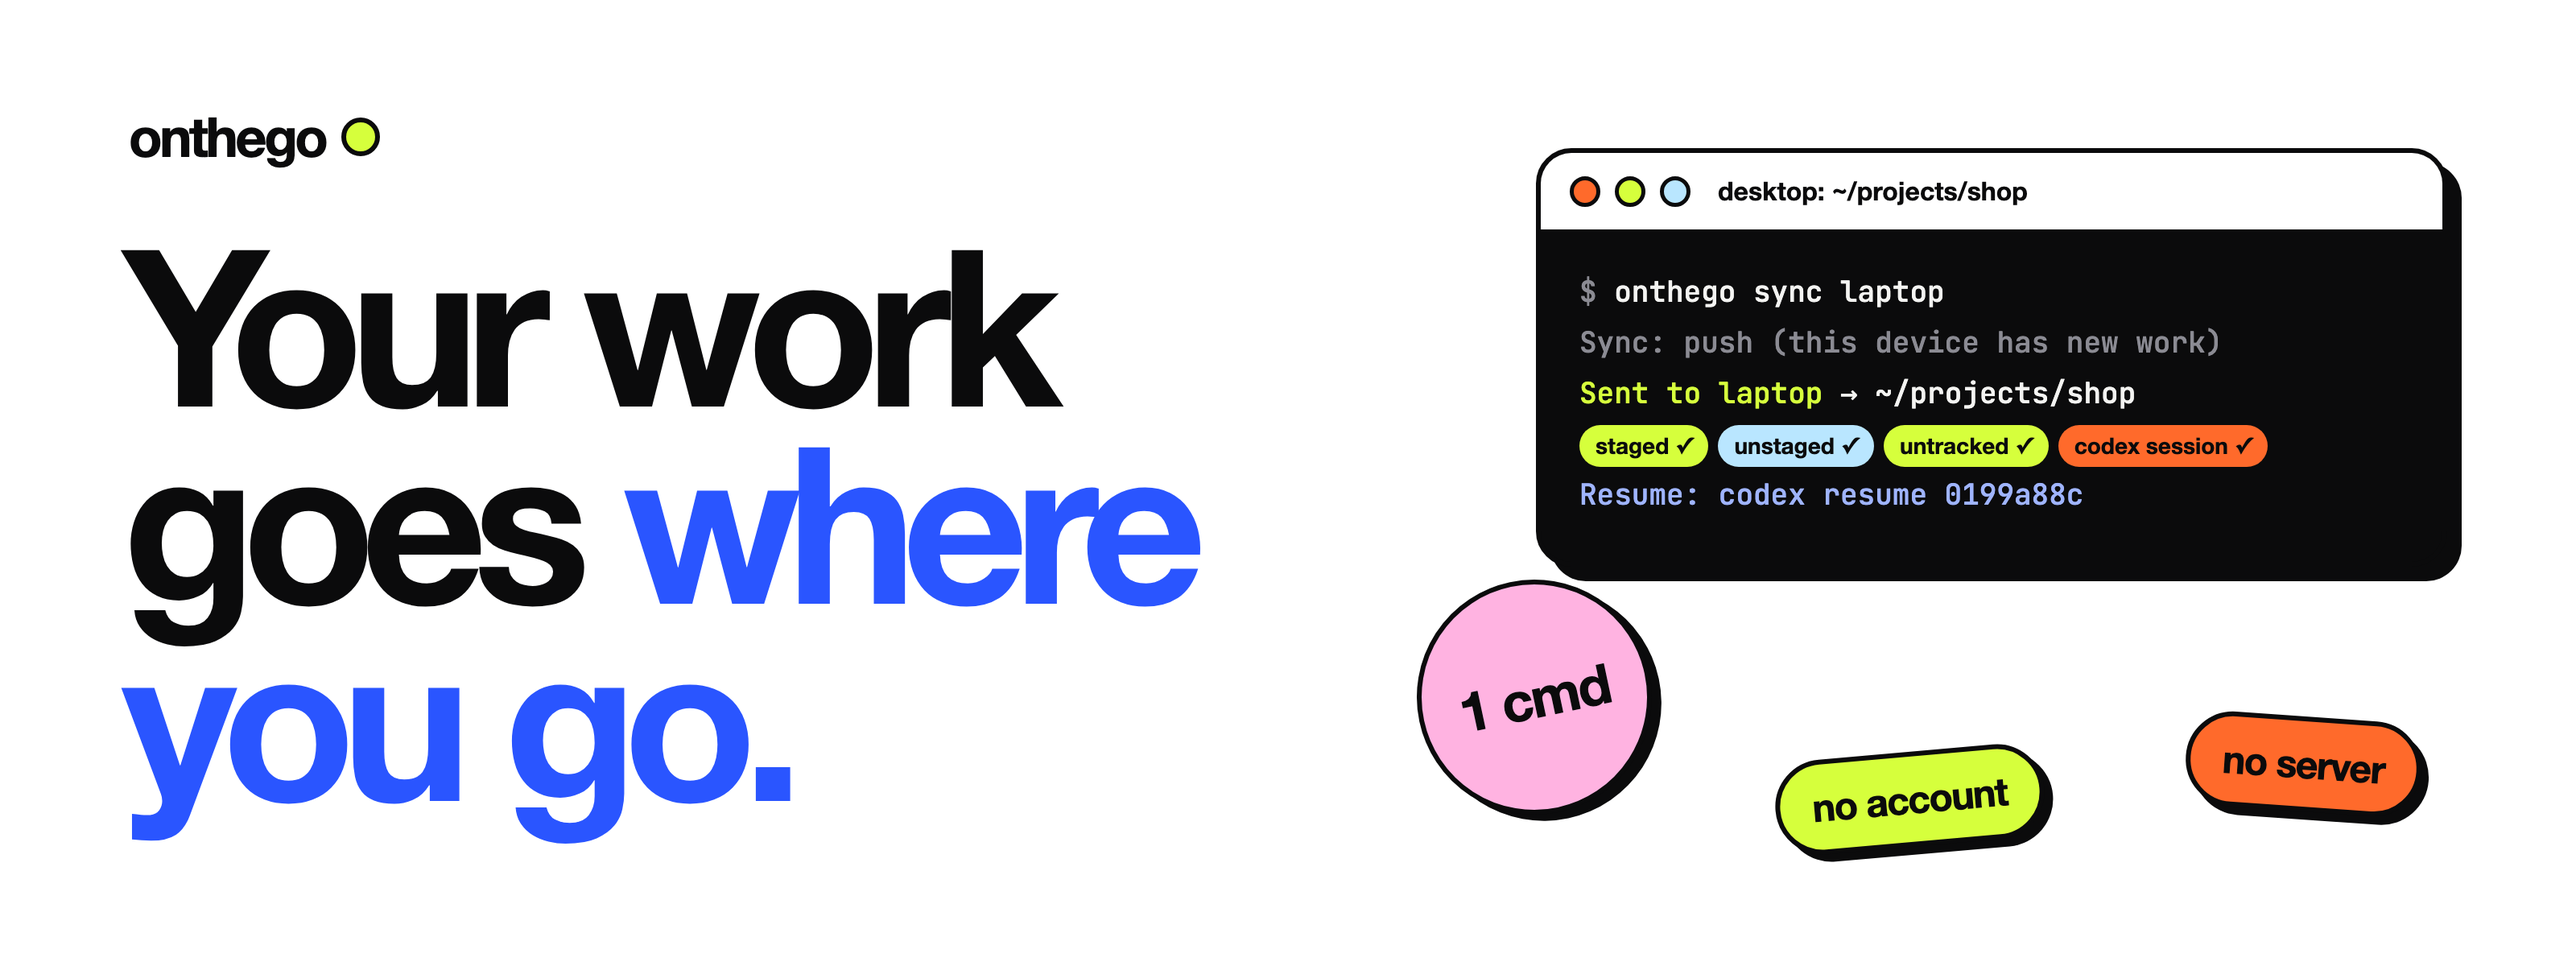
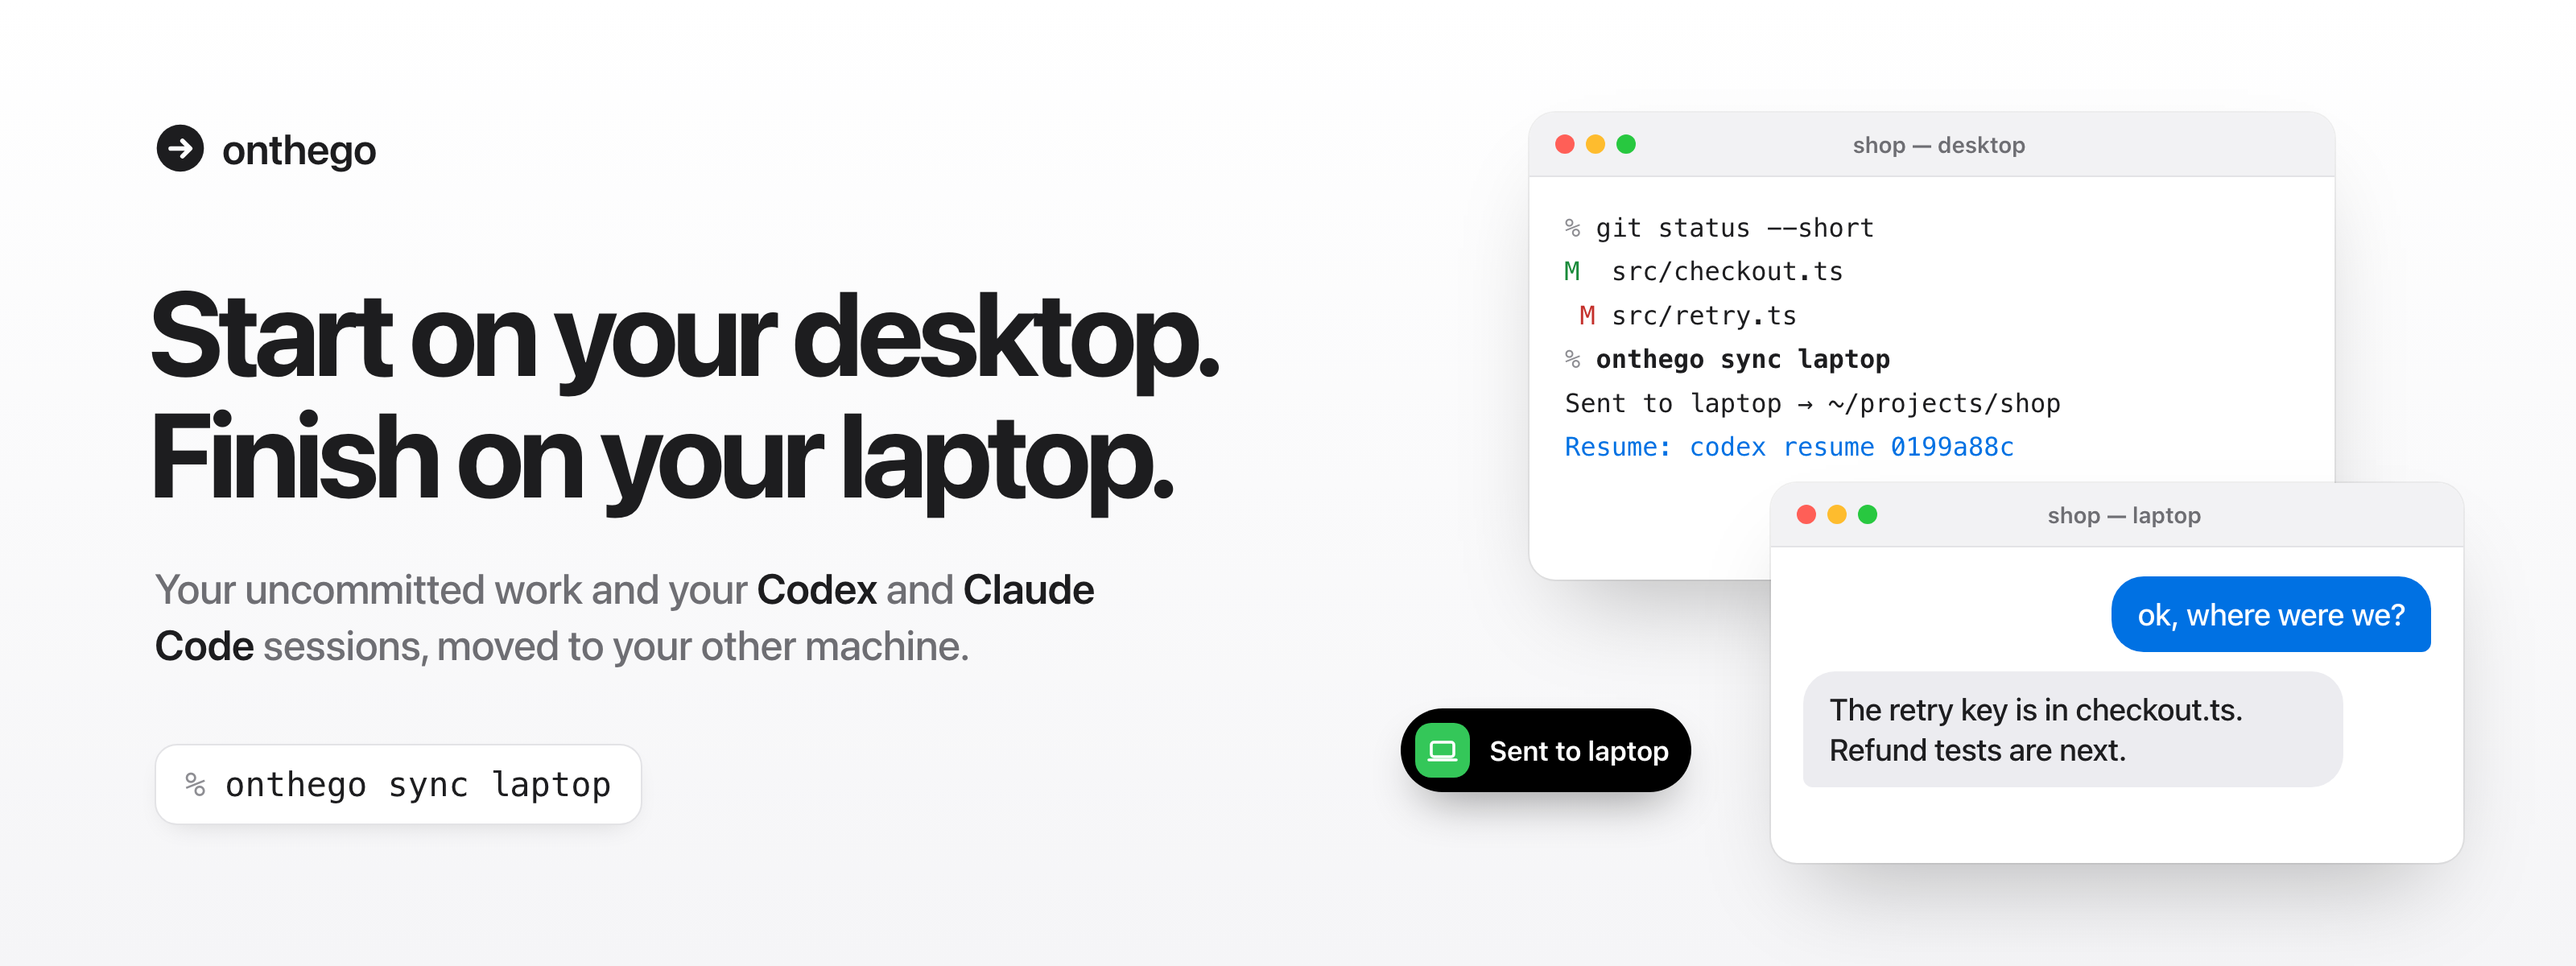
docs(readme): match README and images to the new landing page

diff --git a/assets/banner.html b/assets/banner.html
@@ -5,45 +5,63 @@
 <html lang="en">
 <head>
 <meta charset="utf-8">
-<link href="https://fonts.googleapis.com/css2?family=JetBrains+Mono:wght@500;700&display=swap" rel="stylesheet">
 <style>
-  html, body { margin: 0; width: 1600px; height: 600px; overflow: hidden; background: #fff; }
-  body { position: relative; color: #0b0b0c; font-family: "Helvetica Neue", Helvetica, Arial, sans-serif; }
-  .logo { position: absolute; left: 80px; top: 64px; font-weight: 700; font-size: 34px; letter-spacing: -.05em; display: flex; align-items: center; gap: 10px; }
-  .logo i { width: 18px; height: 18px; border-radius: 50%; background: #d6ff3c; border: 3px solid #0b0b0c; display: inline-block; }
-  h1 { position: absolute; left: 76px; top: 140px; margin: 0; font-weight: 700; font-size: 136px; line-height: .9; letter-spacing: -.065em; width: 860px; }
-  h1 span { color: #2a55ff; }
-  .term { position: absolute; right: 80px; top: 92px; width: 560px; border: 3px solid #0b0b0c; border-radius: 22px; background: #0b0b0c; box-shadow: 9px 9px 0 #0b0b0c; overflow: hidden; }
-  .bar { background: #fff; border-bottom: 3px solid #0b0b0c; padding: 14px 18px; display: flex; gap: 9px; align-items: center; font-weight: 700; font-size: 16px; }
-  .bar i { width: 14px; height: 14px; border-radius: 50%; border: 2.5px solid #0b0b0c; display: inline-block; }
-  .bar i:nth-child(1) { background: #ff6a2b; } .bar i:nth-child(2) { background: #d6ff3c; } .bar i:nth-child(3) { background: #b9e6ff; }
-  .bar span { margin-left: 8px; }
-  .body { padding: 20px 24px 26px; font: 500 18px/1.75 "JetBrains Mono", monospace; color: #f4f4f2; }
-  .c::before { content: "$ "; color: #8b8b93; }
-  .dim { color: #8b8b93; } .ok { color: #d6ff3c; } .bl { color: #9fb4ff; }
-  .pill { display: inline-block; font: 700 14px/1 "Helvetica Neue", Helvetica, Arial; padding: 6px 10px; border-radius: 999px; background: #d6ff3c; color: #0b0b0c; margin: 4px 6px 0 0; }
-  .pill.s { background: #b9e6ff; } .pill.o { background: #ff6a2b; }
-  .stk { position: absolute; border: 3px solid #0b0b0c; box-shadow: 5px 5px 0 #0b0b0c; font-weight: 700; letter-spacing: -.03em; }
-  .circle { width: 140px; height: 140px; border-radius: 50%; background: #ffb3e1; left: 880px; top: 360px; display: grid; place-items: center; font-size: 34px; transform: rotate(-12deg); }
-  .p1 { right: 330px; bottom: 74px; background: #d6ff3c; border-radius: 999px; padding: 12px 20px; font-size: 24px; transform: rotate(-5deg); }
-  .p2 { right: 96px; bottom: 96px; background: #ff6a2b; border-radius: 999px; padding: 12px 20px; font-size: 24px; transform: rotate(4deg); }
+  :root { --text: #1d1d1f; --muted: #6e6e73; --blue: #0071e3; --green: #34c759;
+    --sf: "SF Pro Display", "SF Pro Text", -apple-system, BlinkMacSystemFont, system-ui, sans-serif;
+    --mono: "SF Mono", ui-monospace, Menlo, monospace; }
+  * { box-sizing: border-box; margin: 0; padding: 0; }
+  html, body { width: 1600px; height: 600px; overflow: hidden; }
+  body { position: relative; background: linear-gradient(180deg, #fff 0%, #f5f5f7 100%); color: var(--text); font-family: var(--sf); -webkit-font-smoothing: antialiased; }
+  .logo { position: absolute; left: 96px; top: 76px; display: flex; align-items: center; gap: 10px; font: 600 26px var(--sf); letter-spacing: -.015em; }
+  .logo svg { width: 32px; height: 32px; }
+  h1 { position: absolute; left: 92px; top: 168px; font: 700 74px/1.02 var(--sf); letter-spacing: -.047em; }
+  h1 span { display: block; }
+  .sub { position: absolute; left: 96px; top: 348px; width: 620px; font: 500 26px/1.35 var(--sf); color: var(--muted); letter-spacing: -.012em; }
+  .sub b { color: var(--text); font-weight: 600; }
+  .cmd { position: absolute; left: 96px; top: 462px; display: inline-flex; align-items: center; gap: 12px; background: #fff; border: 1px solid #e3e3e6; border-radius: 14px; padding: 12px 18px; font: 500 21px var(--mono); box-shadow: 0 6px 18px -10px rgba(0,0,0,.2); }
+  .cmd .p { color: #8e8e93; }
+
+  .win { position: absolute; background: #fff; border-radius: 16px; overflow: hidden; box-shadow: 0 30px 60px -24px rgba(0,0,0,.28), 0 0 0 1px rgba(0,0,0,.06); }
+  .bar { height: 40px; display: flex; align-items: center; gap: 7px; padding: 0 16px; background: #f2f2f4; border-bottom: 1px solid #e3e3e6; }
+  .bar i { width: 12px; height: 12px; border-radius: 50%; display: block; }
+  .bar i:nth-child(1) { background: #ff5f57; } .bar i:nth-child(2) { background: #febc2e; } .bar i:nth-child(3) { background: #28c840; }
+  .bar span { margin: 0 auto; transform: translateX(-24px); font: 600 14px var(--sf); color: var(--muted); }
+  .desk { left: 950px; top: 70px; width: 500px; height: 290px; }
+  .term { padding: 18px 22px; font: 500 16px/1.7 var(--mono); white-space: pre; }
+  .term .p { color: #8e8e93; } .term .g { color: #1a8a3a; } .term .r { color: #c4302b; } .term .b { color: var(--blue); } .term .k { font-weight: 700; }
+  .lap { left: 1100px; top: 300px; width: 430px; height: 236px; }
+  .chat { padding: 18px 20px; display: flex; flex-direction: column; gap: 12px; }
+  .msg { max-width: 86%; padding: 11px 16px; border-radius: 20px; font: 500 19px/1.32 var(--sf); letter-spacing: -.01em; }
+  .me { align-self: flex-end; background: var(--blue); color: #fff; border-bottom-right-radius: 6px; }
+  .ai { align-self: flex-start; background: #ececf0; border-bottom-left-radius: 6px; }
+  .island { position: absolute; left: 870px; top: 440px; display: flex; align-items: center; gap: 12px; background: #000; color: #fff; border-radius: 999px; padding: 9px 14px 9px 9px; box-shadow: 0 14px 30px -12px rgba(0,0,0,.45); }
+  .island .ico { width: 34px; height: 34px; border-radius: 10px; background: var(--green); display: grid; place-items: center; }
+  .island .ico svg { width: 20px; height: 20px; }
+  .island b { font: 600 17px var(--sf); }
 </style>
 </head>
 <body>
-  <div class="logo">onthego<i></i></div>
-  <h1>Your work goes <span>where you go.</span></h1>
-    <div class="term">
-    <div class="bar"><i></i><i></i><i></i><span>desktop: ~/projects/shop</span></div>
-    <div class="body">
-      <div class="c">onthego sync laptop</div>
-      <div class="dim">Sync: push (this device has new work)</div>
-      <div><span class="ok">Sent to laptop</span> → ~/projects/shop</div>
-      <div><span class="pill">staged ✓</span><span class="pill s">unstaged ✓</span><span class="pill">untracked ✓</span><span class="pill o">codex session ✓</span></div>
-      <div class="bl">Resume: codex resume 0199a88c</div>
+  <div class="logo"><svg viewBox="0 0 24 24"><circle cx="12" cy="12" r="11" fill="#1d1d1f"/><path d="M7.5 12.2h8.2M13 8.6l3.6 3.6L13 15.8" fill="none" stroke="#fff" stroke-width="2.1" stroke-linecap="round" stroke-linejoin="round"/></svg>onthego</div>
+  <h1><span>Start on your desktop.</span><span>Finish on your laptop.</span></h1>
+  <p class="sub">Your uncommitted work and your <b>Codex</b> and <b>Claude Code</b> sessions, moved to your other machine.</p>
+  <div class="cmd"><span class="p">%</span> onthego sync laptop</div>
+
+  <div class="win desk">
+    <div class="bar"><i></i><i></i><i></i><span>shop &#8212; desktop</span></div>
+<div class="term"><span class="p">%</span> git status --short
+<span class="g">M</span>  src/checkout.ts
+ <span class="r">M</span> src/retry.ts
+<span class="p">%</span> <span class="k">onthego sync laptop</span>
+Sent to laptop &#8594; ~/projects/shop
+<span class="b">Resume: codex resume 0199a88c</span></div>
+  </div>
+  <div class="win lap">
+    <div class="bar"><i></i><i></i><i></i><span>shop &#8212; laptop</span></div>
+    <div class="chat">
+      <div class="msg me">ok, where were we?</div>
+      <div class="msg ai">The retry key is in checkout.ts. Refund tests are next.</div>
     </div>
   </div>
-  <div class="stk circle">1 cmd</div>
-  <div class="stk p1">no account</div>
-  <div class="stk p2">no server</div>
+  <div class="island"><span class="ico"><svg viewBox="0 0 20 20"><rect x="3" y="5" width="14" height="9" rx="1.6" fill="none" stroke="#fff" stroke-width="1.8"/><path d="M1.5 16h17" stroke="#fff" stroke-width="1.8" stroke-linecap="round"/></svg></span><b>Sent to laptop</b></div>
 </body>
 </html>

diff --git a/assets/sync.html b/assets/sync.html
@@ -5,24 +5,32 @@
 <html lang="en">
 <head>
 <meta charset="utf-8">
-<link href="https://fonts.googleapis.com/css2?family=JetBrains+Mono:wght@500;700&display=swap" rel="stylesheet">
 <style>
-  html, body { margin: 0; width: 1600px; height: 520px; overflow: hidden; background: #fff; }
-  body { color: #0b0b0c; font-family: "Helvetica Neue", Helvetica, Arial, sans-serif; display: grid; grid-template-columns: repeat(3, 1fr); gap: 34px; padding: 50px 64px 60px; box-sizing: border-box; }
-  .t { border: 3px solid #0b0b0c; border-radius: 28px; box-shadow: 9px 9px 0 #0b0b0c; padding: 30px 32px; display: flex; flex-direction: column; }
-  .t:nth-child(1) { background: #b9e6ff; transform: rotate(-1.4deg); }
-  .t:nth-child(2) { background: #d6ff3c; transform: rotate(1deg); }
-  .t:nth-child(3) { background: #ff6a2b; transform: rotate(-.8deg); }
-  .g { font-weight: 700; font-size: 130px; line-height: .8; letter-spacing: -.08em; margin-bottom: auto; }
-  .v { align-self: flex-start; background: #0b0b0c; color: #fff; font: 700 20px/1 "JetBrains Mono", monospace; padding: 8px 14px; border-radius: 999px; margin: 24px 0 16px; }
-  h3 { margin: 0 0 10px; font-size: 38px; line-height: 1; letter-spacing: -.05em; }
-  p { margin: 0; font-size: 21px; line-height: 1.35; letter-spacing: -.01em; }
-  code { font: 700 18px "JetBrains Mono", monospace; background: rgba(255,255,255,.6); padding: 1px 6px; border-radius: 6px; }
+  :root { --text: #1d1d1f; --muted: #6e6e73; --sf: "SF Pro Display", "SF Pro Text", -apple-system, BlinkMacSystemFont, system-ui, sans-serif; --mono: "SF Mono", ui-monospace, Menlo, monospace; }
+  * { box-sizing: border-box; margin: 0; padding: 0; }
+  html, body { width: 1600px; height: 520px; overflow: hidden; }
+  body { background: #f5f5f7; color: var(--text); font-family: var(--sf); -webkit-font-smoothing: antialiased; display: grid; grid-template-columns: repeat(3, 1fr); gap: 28px; padding: 56px 72px; }
+  .t { background: #fff; border-radius: 28px; padding: 36px 36px 34px; display: flex; flex-direction: column; }
+  .ic { width: 64px; height: 64px; border-radius: 18px; display: grid; place-items: center; margin-bottom: auto; }
+  .ic svg { width: 32px; height: 32px; }
+  .v { align-self: flex-start; font: 600 17px var(--mono); color: var(--muted); background: #f2f2f4; border-radius: 8px; padding: 5px 10px; margin-bottom: 14px; }
+  h3 { font: 700 38px/1.05 var(--sf); letter-spacing: -.035em; margin-bottom: 12px; }
+  p { font: 500 20px/1.4 var(--sf); color: var(--muted); letter-spacing: -.01em; }
+  code { font: 600 17px var(--mono); color: var(--text); background: #f2f2f4; border-radius: 6px; padding: 1px 6px; }
 </style>
 </head>
 <body>
-  <div class="t"><div class="g">→</div><span class="v">push</span><h3>Only here changed</h3><p>Your work and its agent sessions go to the other device.</p></div>
-  <div class="t"><div class="g">←</div><span class="v">pull</span><h3>Only there changed</h3><p>It brings everything back. Also when you handed work off.</p></div>
-  <div class="t"><div class="g">✕</div><span class="v">stop</span><h3>Both changed</h3><p>Nothing is merged. Pick <code>push --replace</code> or <code>pull --replace</code>; a backup is kept.</p></div>
+  <div class="t">
+    <div class="ic" style="background:#0071e3"><svg viewBox="0 0 32 32"><path d="M7 16h17M18 9.5l6.5 6.5-6.5 6.5" fill="none" stroke="#fff" stroke-width="3" stroke-linecap="round" stroke-linejoin="round"/></svg></div>
+    <span class="v">push</span><h3>Only here changed</h3><p>Your work and its agent sessions go to the other device.</p>
+  </div>
+  <div class="t">
+    <div class="ic" style="background:#34c759"><svg viewBox="0 0 32 32"><path d="M25 16H8M14 9.5L7.5 16l6.5 6.5" fill="none" stroke="#fff" stroke-width="3" stroke-linecap="round" stroke-linejoin="round"/></svg></div>
+    <span class="v">pull</span><h3>Only there changed</h3><p>It brings everything back. Also when you handed work off.</p>
+  </div>
+  <div class="t">
+    <div class="ic" style="background:#1d1d1f"><svg viewBox="0 0 32 32"><path d="M10 10l12 12M22 10L10 22" fill="none" stroke="#fff" stroke-width="3" stroke-linecap="round"/></svg></div>
+    <span class="v">stop</span><h3>Both changed</h3><p>Nothing is merged. Pick <code>push --replace</code> or <code>pull --replace</code>. A backup is kept.</p>
+  </div>
 </body>
 </html>

diff --git a/README.md b/README.md
@@ -1,20 +1,20 @@
 <p align="center">
-  <img src="https://raw.githubusercontent.com/peerproblem/onthego/main/assets/onthego-banner.png" alt="onthego moves your Git workspace and agent sessions between your desktop, laptop, and VPS" width="100%">
+  <img src="https://raw.githubusercontent.com/peerproblem/onthego/main/assets/onthego-banner.png" alt="Start on your desktop. Finish on your laptop. onthego moves your uncommitted work and your Codex and Claude Code sessions to your other machine." width="100%">
 </p>
 
-<h3 align="center">Desk to couch to café to server. Your work comes along.</h3>
+<h3 align="center">Start on your desktop. Finish on your laptop.</h3>
 
 <p align="center">
-  One command moves an unfinished Git workspace <b>and</b> its Codex and Claude Code sessions<br>
-  between your own desktop, laptop, and VPS. Pick up the same conversation where you left it.
+  onthego copies your uncommitted work and your Codex and Claude Code sessions<br>
+  to your other machine. Then you pick up the same session there.
 </p>
 
 <p align="center">
-  <a href="https://www.npmjs.com/package/@jbaehova/onthego"><img alt="npm" src="https://img.shields.io/npm/v/%40jbaehova%2Fonthego?style=for-the-badge&color=0b0b0c&labelColor=d6ff3c&label=npm"></a>
-  <a href="https://github.com/peerproblem/onthego/actions/workflows/ci.yml"><img alt="CI" src="https://img.shields.io/github/actions/workflow/status/peerproblem/onthego/ci.yml?branch=main&style=for-the-badge&labelColor=b9e6ff&color=0b0b0c&label=ci"></a>
-  <img alt="macOS and Linux" src="https://img.shields.io/badge/macOS%20%2B%20Linux-0b0b0c?style=for-the-badge">
-  <img alt="No account, no server" src="https://img.shields.io/badge/no%20account-no%20server-ff6a2b?style=for-the-badge&labelColor=0b0b0c">
-  <a href="LICENSE"><img alt="MIT license" src="https://img.shields.io/badge/license-MIT-ffb3e1?style=for-the-badge&labelColor=0b0b0c"></a>
+  <a href="https://www.npmjs.com/package/@jbaehova/onthego"><img alt="npm" src="https://img.shields.io/npm/v/%40jbaehova%2Fonthego?style=flat-square&color=1d1d1f&label=npm"></a>
+  <a href="https://github.com/peerproblem/onthego/actions/workflows/ci.yml"><img alt="CI" src="https://img.shields.io/github/actions/workflow/status/peerproblem/onthego/ci.yml?branch=main&style=flat-square&label=ci"></a>
+  <img alt="macOS and Linux" src="https://img.shields.io/badge/macOS%20%2B%20Linux-1d1d1f?style=flat-square">
+  <img alt="No account, no server" src="https://img.shields.io/badge/no%20account%2C%20no%20server-0071e3?style=flat-square">
+  <a href="LICENSE"><img alt="MIT license" src="https://img.shields.io/badge/license-MIT-1d1d1f?style=flat-square"></a>
 </p>
 
 <p align="center">
@@ -36,14 +36,16 @@ onthego sync laptop
 
 That's the whole idea. Staged, unstaged, and untracked work arrives exactly as you left it, together with this project's agent sessions. On the other device, run `codex resume` or `claude --resume` and keep talking.
 
-## Why onthego
+## How it works
 
 | | |
 | :-- | :-- |
-| 🧠 **Nothing to explain twice** | Agent sessions travel with the code, so the next device continues the same conversation. |
-| 🧹 **No "wip!!" commits** | The working tree, the index, and untracked files arrive as they were. Your history stays clean. |
-| 🏠 **Each machine stays itself** | `node_modules`, caches, Git config, hooks, and agent logins are never overwritten. |
-| 🔒 **Yours, end to end** | Devices talk over your own SSH. No account, no relay, no AI. Just a small open-source CLI. |
+| **Capture** | Staged, unstaged, and untracked files, plus this project's recent agent sessions. Your `.env` stays put. |
+| **Encrypt** | Each handoff is encrypted for the receiving device and signed by the sender. |
+| **Send** | Over your own SSH. Same Wi-Fi, Tailscale, or a VPS. No account, no relay. |
+| **Resume** | Run `codex resume` or `claude --resume` on the other machine. Same conversation. |
+
+Your Git history stays clean, with no "wip" commits. `node_modules`, caches, Git config, hooks, and agent logins stay on each machine.
 
 ## Install
 
@@ -318,8 +320,6 @@ onthego device install laptop                           # repeat for each SSH de
 | [Development](docs/development.md) | Tests, demos, end-to-end checks, benchmarks, and releasing. |
 
 Handoffs are explicit on purpose: you always know which device has the work. Continuous background synchronization is out of scope.
-
-<p align="center"><b>Pack up. Move on.</b></p>
 
 ## License
 
